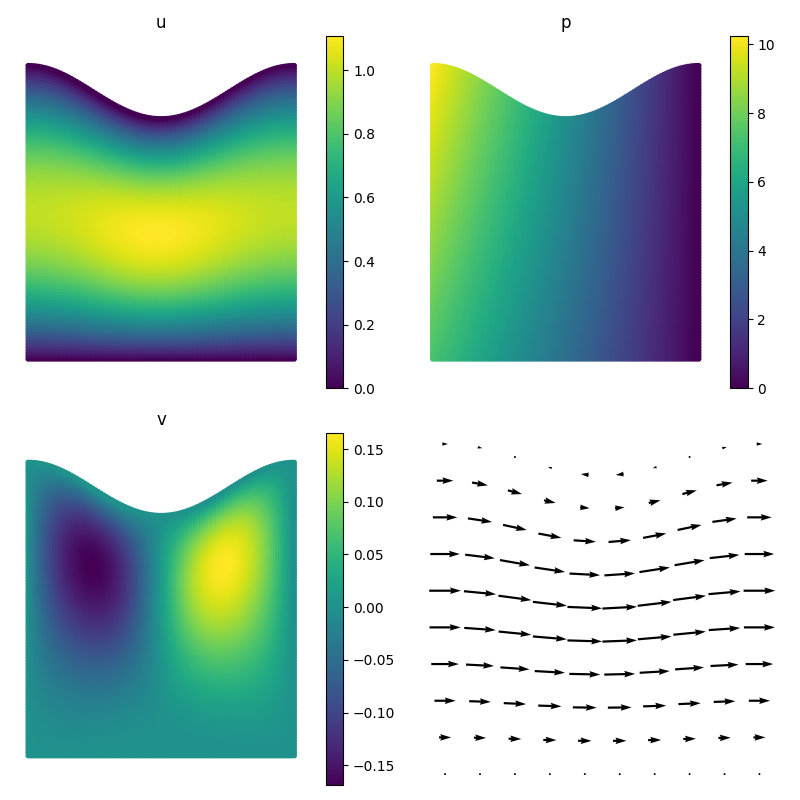
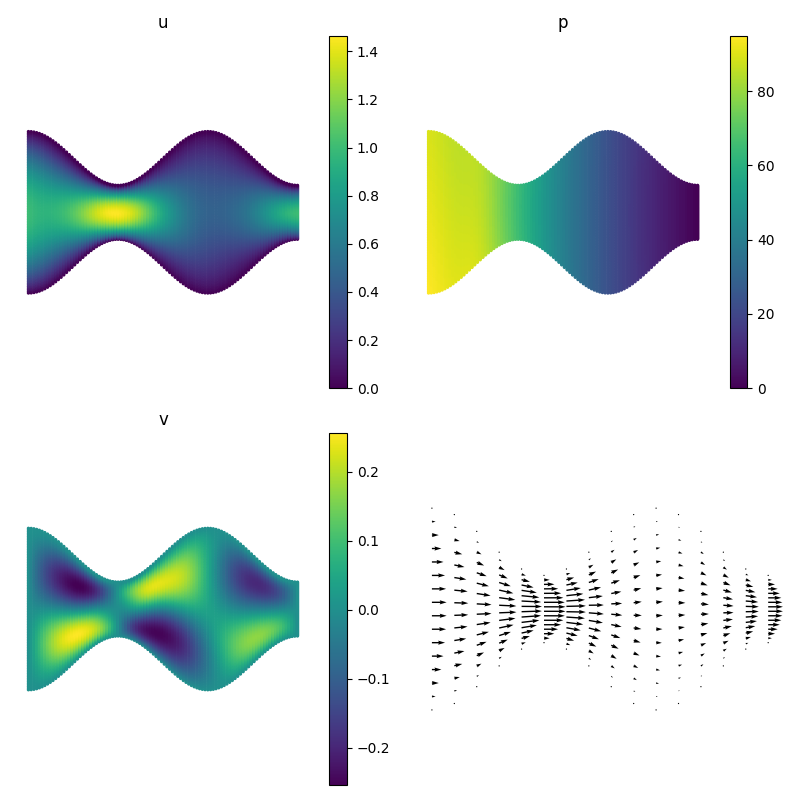
Change tube geometry.

diff --git a/03_tube.py b/03_tube.py
@@ -10,20 +10,20 @@ dim = 2
 ref = dde.geometry.Rectangle([0]*dim, [1]*dim)
 
 # Transform domain along x-axis
-f = lambda x: 1 + 0.05 * bkd.cos(2 * torch.pi * x)
+s = lambda x: .2 + .1 * bkd.cos(3 * torch.pi * x)
 
 def to_global(x):
     x, y = x[..., 0:1], x[..., 1:2]
     return bkd.concat((
         x,
-        y * f(x),
+        (2 * y - 1) * s(x),
     ), 1)
 
 def to_local(x):
     x, y = x[..., 0:1], x[..., 1:2]
     return bkd.concat((
         x,
-        y / f(x),
+        (y / s(x) + 1) / 2,
     ), 1)
 
 geo = geometry.Transformed(ref, to_global, to_local)
@@ -32,27 +32,21 @@ geo = geometry.Transformed(ref, to_global, to_local)
 #   -Delta u + grad p = 0
 #   div u = 0
 def pde(x, sol):
-    arc_lengths = torch.cat([
-        torch.sqrt(sum(dde.grad.jacobian(to_global(x), x, i=i, j=j)**2 for j in range(dim)))
-        for i in range(dim)
-    ], dim=1)
-    lx, ly = arc_lengths[:, 0:1], arc_lengths[:, 1:2]
-    
     u, v, p = sol[:, 0:1], sol[:, 1:2], sol[:, 2:3]
     
-    p_x = dde.grad.jacobian(p, x, j=0) / lx
-    p_y = dde.grad.jacobian(p, x, j=1) / ly
+    p_x = dde.grad.jacobian(p, x, j=0)
+    p_y = dde.grad.jacobian(p, x, j=1)
 
-    u_x = dde.grad.jacobian(u, x, j=0) / lx
-    u_y = dde.grad.jacobian(u, x, j=1) / ly
-    v_x = dde.grad.jacobian(v, x, j=0) / lx
-    v_y = dde.grad.jacobian(v, x, j=1) / ly
+    u_x = dde.grad.jacobian(u, x, j=0)
+    u_y = dde.grad.jacobian(u, x, j=1)
+    v_x = dde.grad.jacobian(v, x, j=0)
+    v_y = dde.grad.jacobian(v, x, j=1)
 
-    u_xx = dde.grad.jacobian(u_x, x, j=0) / lx
-    u_yy = dde.grad.jacobian(u_y, x, j=1) / ly
+    u_xx = dde.grad.jacobian(u_x, x, j=0)
+    u_yy = dde.grad.jacobian(u_y, x, j=1)
 
-    v_xx = dde.grad.jacobian(v_x, x, j=0) / lx
-    v_yy = dde.grad.jacobian(v_y, x, j=1) / ly
+    v_xx = dde.grad.jacobian(v_x, x, j=0)
+    v_yy = dde.grad.jacobian(v_y, x, j=1)
 
     loss  = 1e-2 * (-(u_xx + u_yy) + p_x)**2
     loss += 1e-2 * (-(v_xx + v_yy) + p_y)**2
@@ -90,22 +84,18 @@ def output_transform(y, sol):
 net.apply_output_transform(output_transform)
 
 model = dde.Model(data, net)
-dde.optimizers.config.set_LBFGS_options(maxiter=1000)
+dde.optimizers.config.set_LBFGS_options(maxiter=5000)
 model.compile("L-BFGS")
 model.train()
 
 # Evaluate solution
 x = geo.uniform_points(100**dim)
-x = torch.tensor(x, requires_grad=True)
-sol = net(x)
+sol = net(torch.tensor(x))
 sol = sol.detach().numpy()
 u, v, p = sol[:, 0], sol[:, 1], sol[:, 2]
 
-# Plot in global coordinates
-x = to_global(x).detach().numpy()
-
 def plot(quantity, name, ax):
-    cb = ax.scatter(x[:, 0], x[:, 1], s=10, c=quantity)
+    cb = ax.scatter(x[:, 0], x[:, 1], s=2, c=quantity)
     plt.colorbar(cb)
     ax.set_title(name)
     ax.axis('equal')
@@ -117,14 +107,12 @@ plot(v, 'v', axs[1][0])
 plot(p, 'p', axs[0][1])
 
 # Plot quivers
-x = ref.uniform_points(10**dim)
-x = torch.tensor(x, requires_grad=True)
-sol = net(x)
+x = geo.uniform_points(16**dim)
+sol = net(torch.tensor(x))
 sol = sol.detach().numpy()
 u, v, p = sol[:, 0], sol[:, 1], sol[:, 2]
-x = to_global(x).detach().numpy()
 axq = axs[1][1]
-axq.quiver(x[:, 0], x[:, 1], u, v, pivot='mid')
+axq.quiver(x[:, 0], x[:, 1], u, v, scale=25)
 axq.axis('equal')
 axq.axis('off')
 
